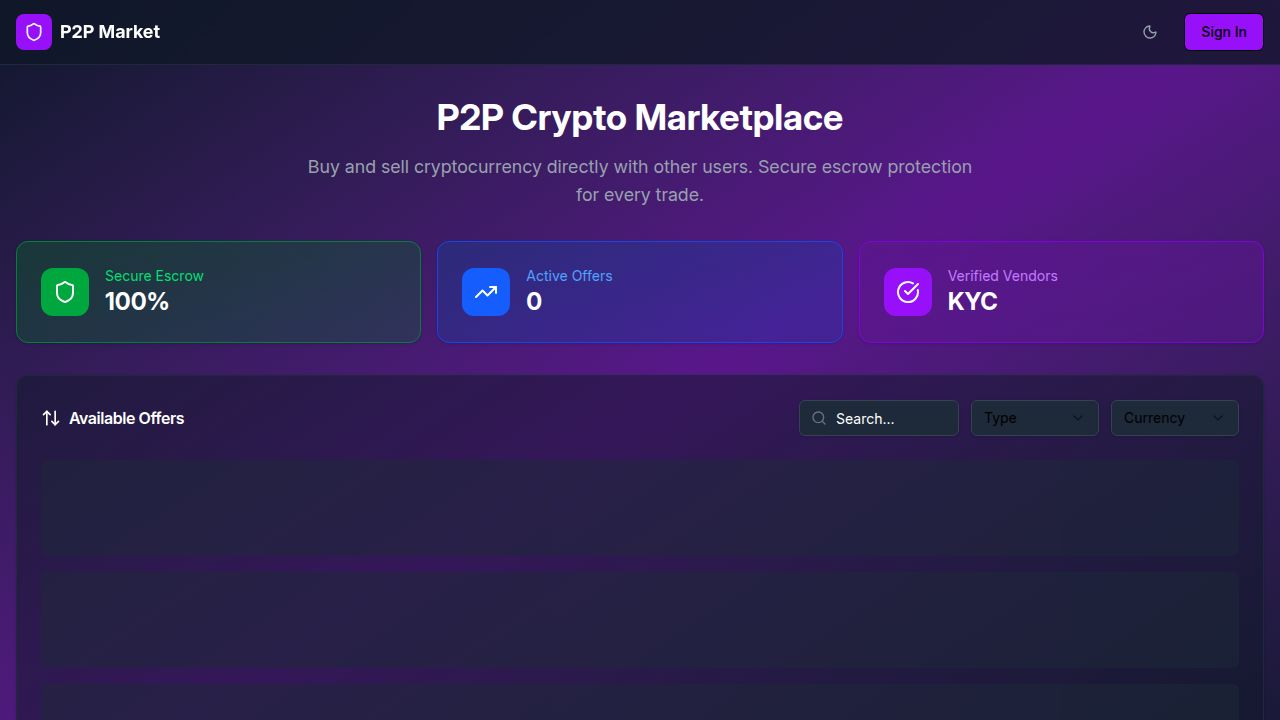
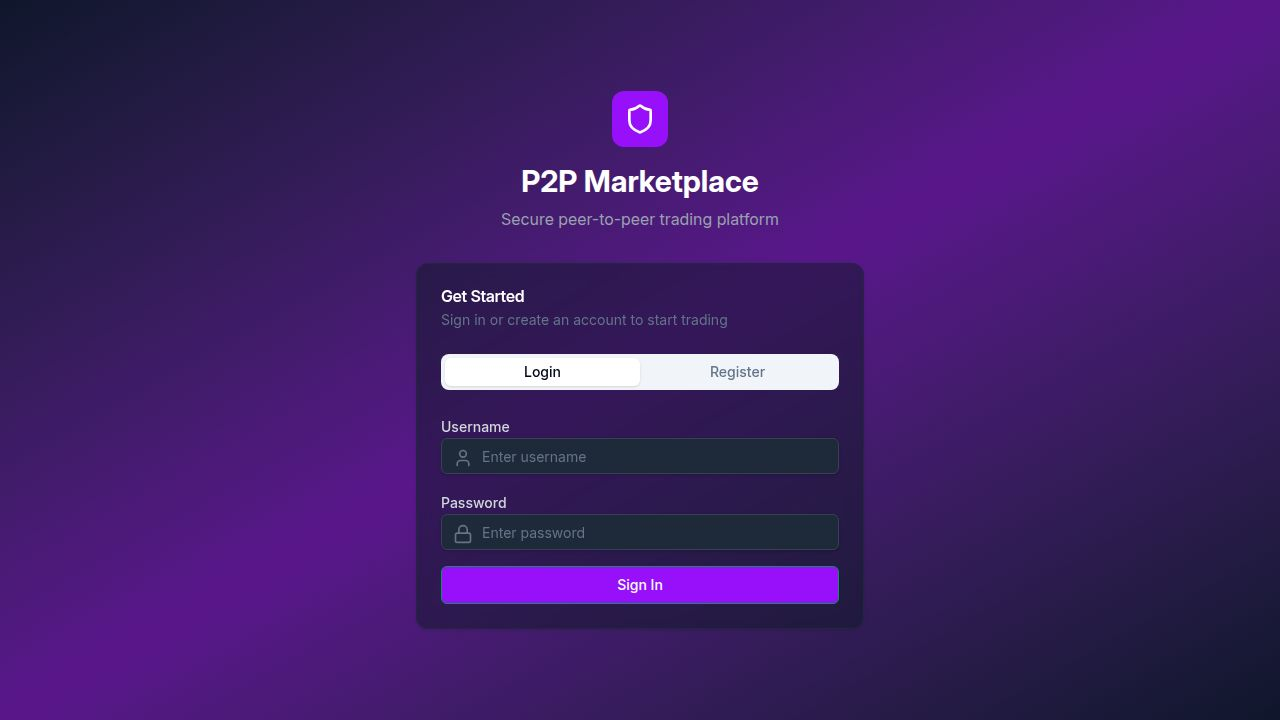
Update app name and trading platform references from P2P to KYC
Updates meta tags, layout component, locale files, and authentication page to reflect the renaming from "P2P Marketplace" to "KYC Marketplace".

Replit-Commit-Author: Agent
Replit-Commit-Session-Id: 530c5d30-60f9-45f9-9065-bce4248e8771
Replit-Commit-Checkpoint-Type: full_checkpoint
Replit-Commit-Event-Id: 5a73752e-79f6-43eb-a6fc-9d157ae35dc9
Replit-Commit-Screenshot-Url: https://storage.googleapis.com/screenshot-production-us-central1/b53f060f-db5d-4d5d-bf2e-7638c0930d81/530c5d30-60f9-45f9-9065-bce4248e8771/jan2teR
Replit-Helium-Checkpoint-Created: true

diff --git a/client/index.html b/client/index.html
@@ -4,14 +4,14 @@
     <meta charset="UTF-8" />
     <meta name="viewport" content="width=device-width, initial-scale=1.0, maximum-scale=1" />
 
-    <meta property="og:title" content="Replit Design" />
-    <meta property="og:description" content="A website made with Replit Design" />
+    <meta property="og:title" content="KYC Marketplace" />
+    <meta property="og:description" content="Secure crypto trading platform with KYC verification" />
     <meta property="og:type" content="website" />
     <meta property="og:image" content="https://replit.com/public/images/opengraph.png" />
     <meta name="twitter:card" content="summary_large_image" />
     <meta name="twitter:site" content="@replit" />
-    <meta name="twitter:title" content="Replit Design" />
-    <meta name="twitter:description" content="A website made with Replit Design" />
+    <meta name="twitter:title" content="KYC Marketplace" />
+    <meta name="twitter:description" content="Secure crypto trading platform with KYC verification" />
     <meta name="twitter:image" content="https://replit.com/public/images/opengraph.png" />
 
     <link rel="icon" type="image/png" href="/favicon.png" />

diff --git a/client/src/pages/AuthPage.tsx b/client/src/pages/AuthPage.tsx
@@ -57,7 +57,7 @@ export default function AuthPage() {
     onSuccess: (data) => {
       localStorage.setItem("token", data.token);
       localStorage.setItem("user", JSON.stringify(data.user));
-      toast({ title: "Account Created!", description: "Welcome to P2P Marketplace" });
+      toast({ title: "Account Created!", description: "Welcome to KYC Marketplace" });
       setLocation("/");
     },
     onError: (error: Error) => {
@@ -74,7 +74,7 @@ export default function AuthPage() {
               <Shield className="h-8 w-8 text-white" />
             </div>
           </div>
-          <h1 className="text-3xl font-bold text-white">P2P Marketplace</h1>
+          <h1 className="text-3xl font-bold text-white">KYC Marketplace</h1>
           <p className="text-gray-400 mt-2">Secure peer-to-peer trading platform</p>
         </div>
 

diff --git a/client/src/pages/HomePage.tsx b/client/src/pages/HomePage.tsx
@@ -103,7 +103,7 @@ export default function HomePage() {
             </button>
             <div className="flex items-center gap-6">
               <span className="text-muted-foreground font-medium">Express</span>
-              <span className="text-foreground font-semibold border-b-2 border-foreground pb-1">P2P</span>
+              <span className="text-foreground font-semibold border-b-2 border-foreground pb-1">KYC</span>
               <span className="text-muted-foreground font-medium">Block Trade</span>
             </div>
           </div>

diff --git a/client/src/components/Layout.tsx b/client/src/components/Layout.tsx
@@ -85,7 +85,7 @@ export default function Layout({ children }: LayoutProps) {
                 <div className="p-2 bg-purple-600 rounded-lg">
                   <Shield className="h-5 w-5 text-white" />
                 </div>
-                <span className="font-bold text-white text-lg hidden sm:block">P2P Market</span>
+                <span className="font-bold text-white text-lg hidden sm:block">KYC Marketplace</span>
               </Link>
 
               {authenticated && (
